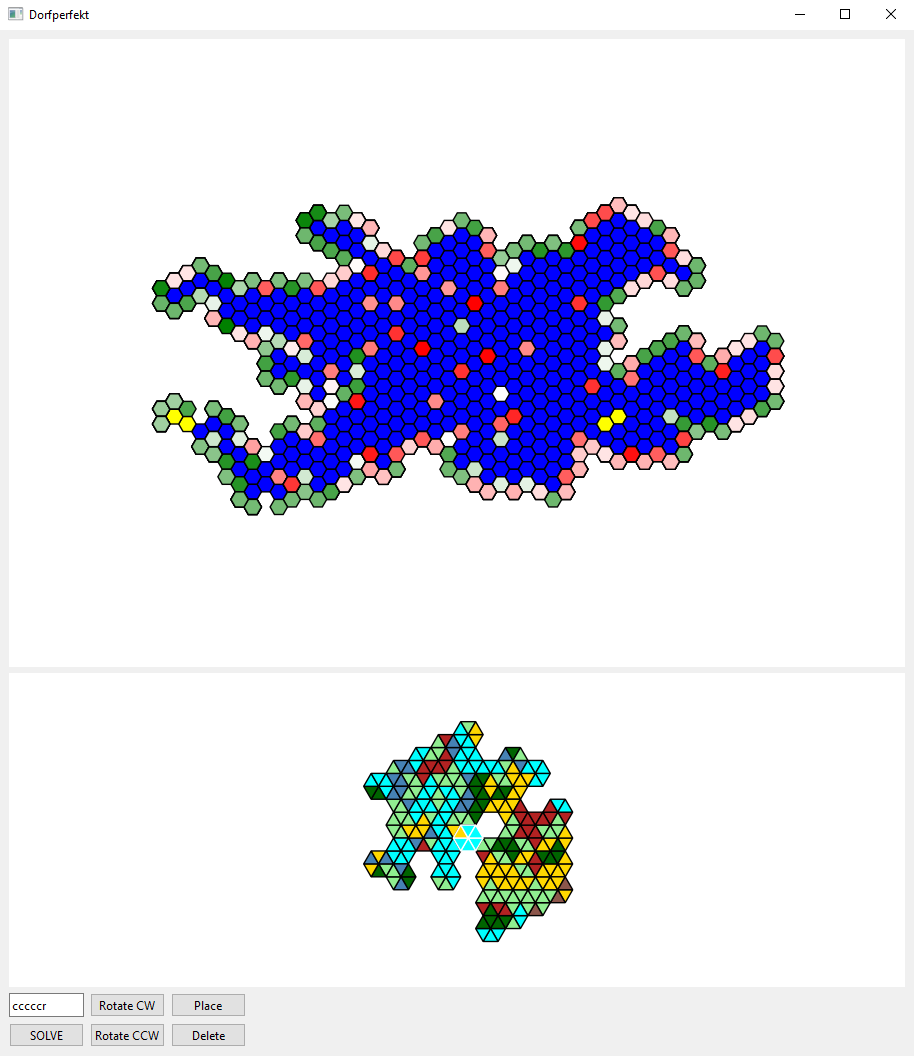
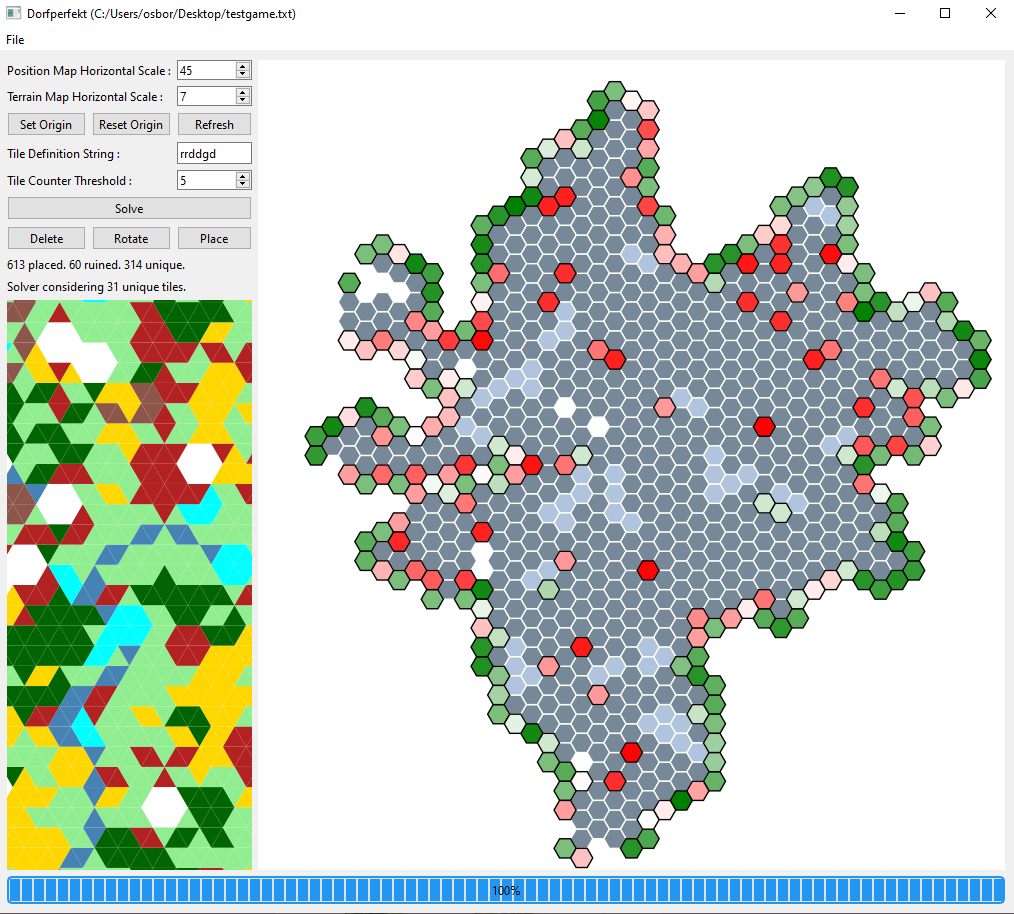
readme

diff --git a/README.md b/README.md
@@ -1,24 +1,32 @@
 # Dorfperfekt
 
-Tile placement suggestions for the game Dorfromantik.
-
-## Installation
-
-From the command line, install with `pip install dorfperfekt`. The application can then be run from the command line with `dorfperfekt`.
-
-## Usage
-
-Dorfperfekt displays an overall map of the board at the top. Blue tiles are perfect (or potentially perfect) placements, whereas yellow tiles are ruined placements. A text string representing the next tile to be placed is entered in the text field. The solve button will then compute a ranking of all possible moves using some heuristics and draw a green/red heatmap.
-
-Positions on the map can be clicked on. By clicking on a proposed position for your next placement, a view of the local area showing the terrains is generated at the bottom. The tile to be placed is given a proposed rotation, but the user may use the rotation buttons to select an alternate rotation.
+Tile placement suggestions for the game Dorfromantik. With an emphasis on perfect tile placement, this software tool enables the player to play indefinitely (and achieve a massive score while doing so).
 
 ![demo dorfperfekt](demo_dorfperfekt.png)
 ![demo dorfromantik map](demo_dorfromantik_map.png)
 ![demo dorfromantik score](demo_dorfromantik_score.png)
 
-### Tile Definitions
+## How It Works
 
-A tile is defined by a six character text string, where each character represents the edge's terrain in clockwise order. If all edges of the tile are the same, a single character may be used instead. Tile characters are deliberatly selected to all be accessible from the left hand.
+The player inputs a six-character text string representing the next tile to be placed. Each valid placement is then evaluated by the solver according to the following (in order of precedence):
+
+1. How many tiles would be ruined by this placement? Less is better.
+2. Of the tiles encountered so far, how many would alternatively fit perfectly at this position? Less is better.
+3. Assuming this placement is made, consider each adjacent open position. Of the tiles encountered so far, how many would fit perfectly at that adjacent position? Take the minimum of all adjacent open positions. More is better.
+
+The latter two computations will take a significant amount of time as the game progresses and more unique tiles are encountered. A threshold is set by the user so that the solver can be instructed to ignore rarer tiles.
+
+## Using the Application
+
+Dorfperfekt displays an overall map of the board. Dark gray tiles are non-ruined placements and light gray tiles are ruined placements. After entering a tile definition string and pressing the solve button, the progress bar will increment and pressing the refresh button will overlay a heatmap of the possible moves onto the board. Green is better, red is worse, and white is neutral (or not yet evaluated).
+
+Positions on the map can be clicked on. By clicking on a proposed position for your next placement, a view of the local terrain is generated. The tile to be placed is given a proposed best rotation but the user may use the rotate button to select an alternate rotation.
+
+Existing tiles may also be clicked on such that they may be deleted or set as the origin to recenter the map of the board.
+
+## Tile Definitions
+
+A tile is defined by a six-character text string where each character represents the edge terrains in **clockwise** order. If all edges of the tile are the same a single character may be used instead. Tile characters are deliberatly selected to all be accessible from the left hand.
 
 - Grass, "g"
 - Forest, "f"
@@ -29,13 +37,9 @@ A tile is defined by a six character text string, where each character represent
 - Train, "t"
 - Coast, "c" (ie. lakes)
 
-## Work to Go
+## Installation
 
-1. Add a save/load feature.
-2. Fix the terrain map to show non-contiguous local tiles.
-3. Better optimize the ratings computation for speed.
-4. Add support for a central terrain, quests, and flags.
-5. Experiment with different heuristics.
+From the command line, install with `pip install dorfperfekt`. The application can then be run from the command line with `dorfperfekt`.
 
 ## Development
 
